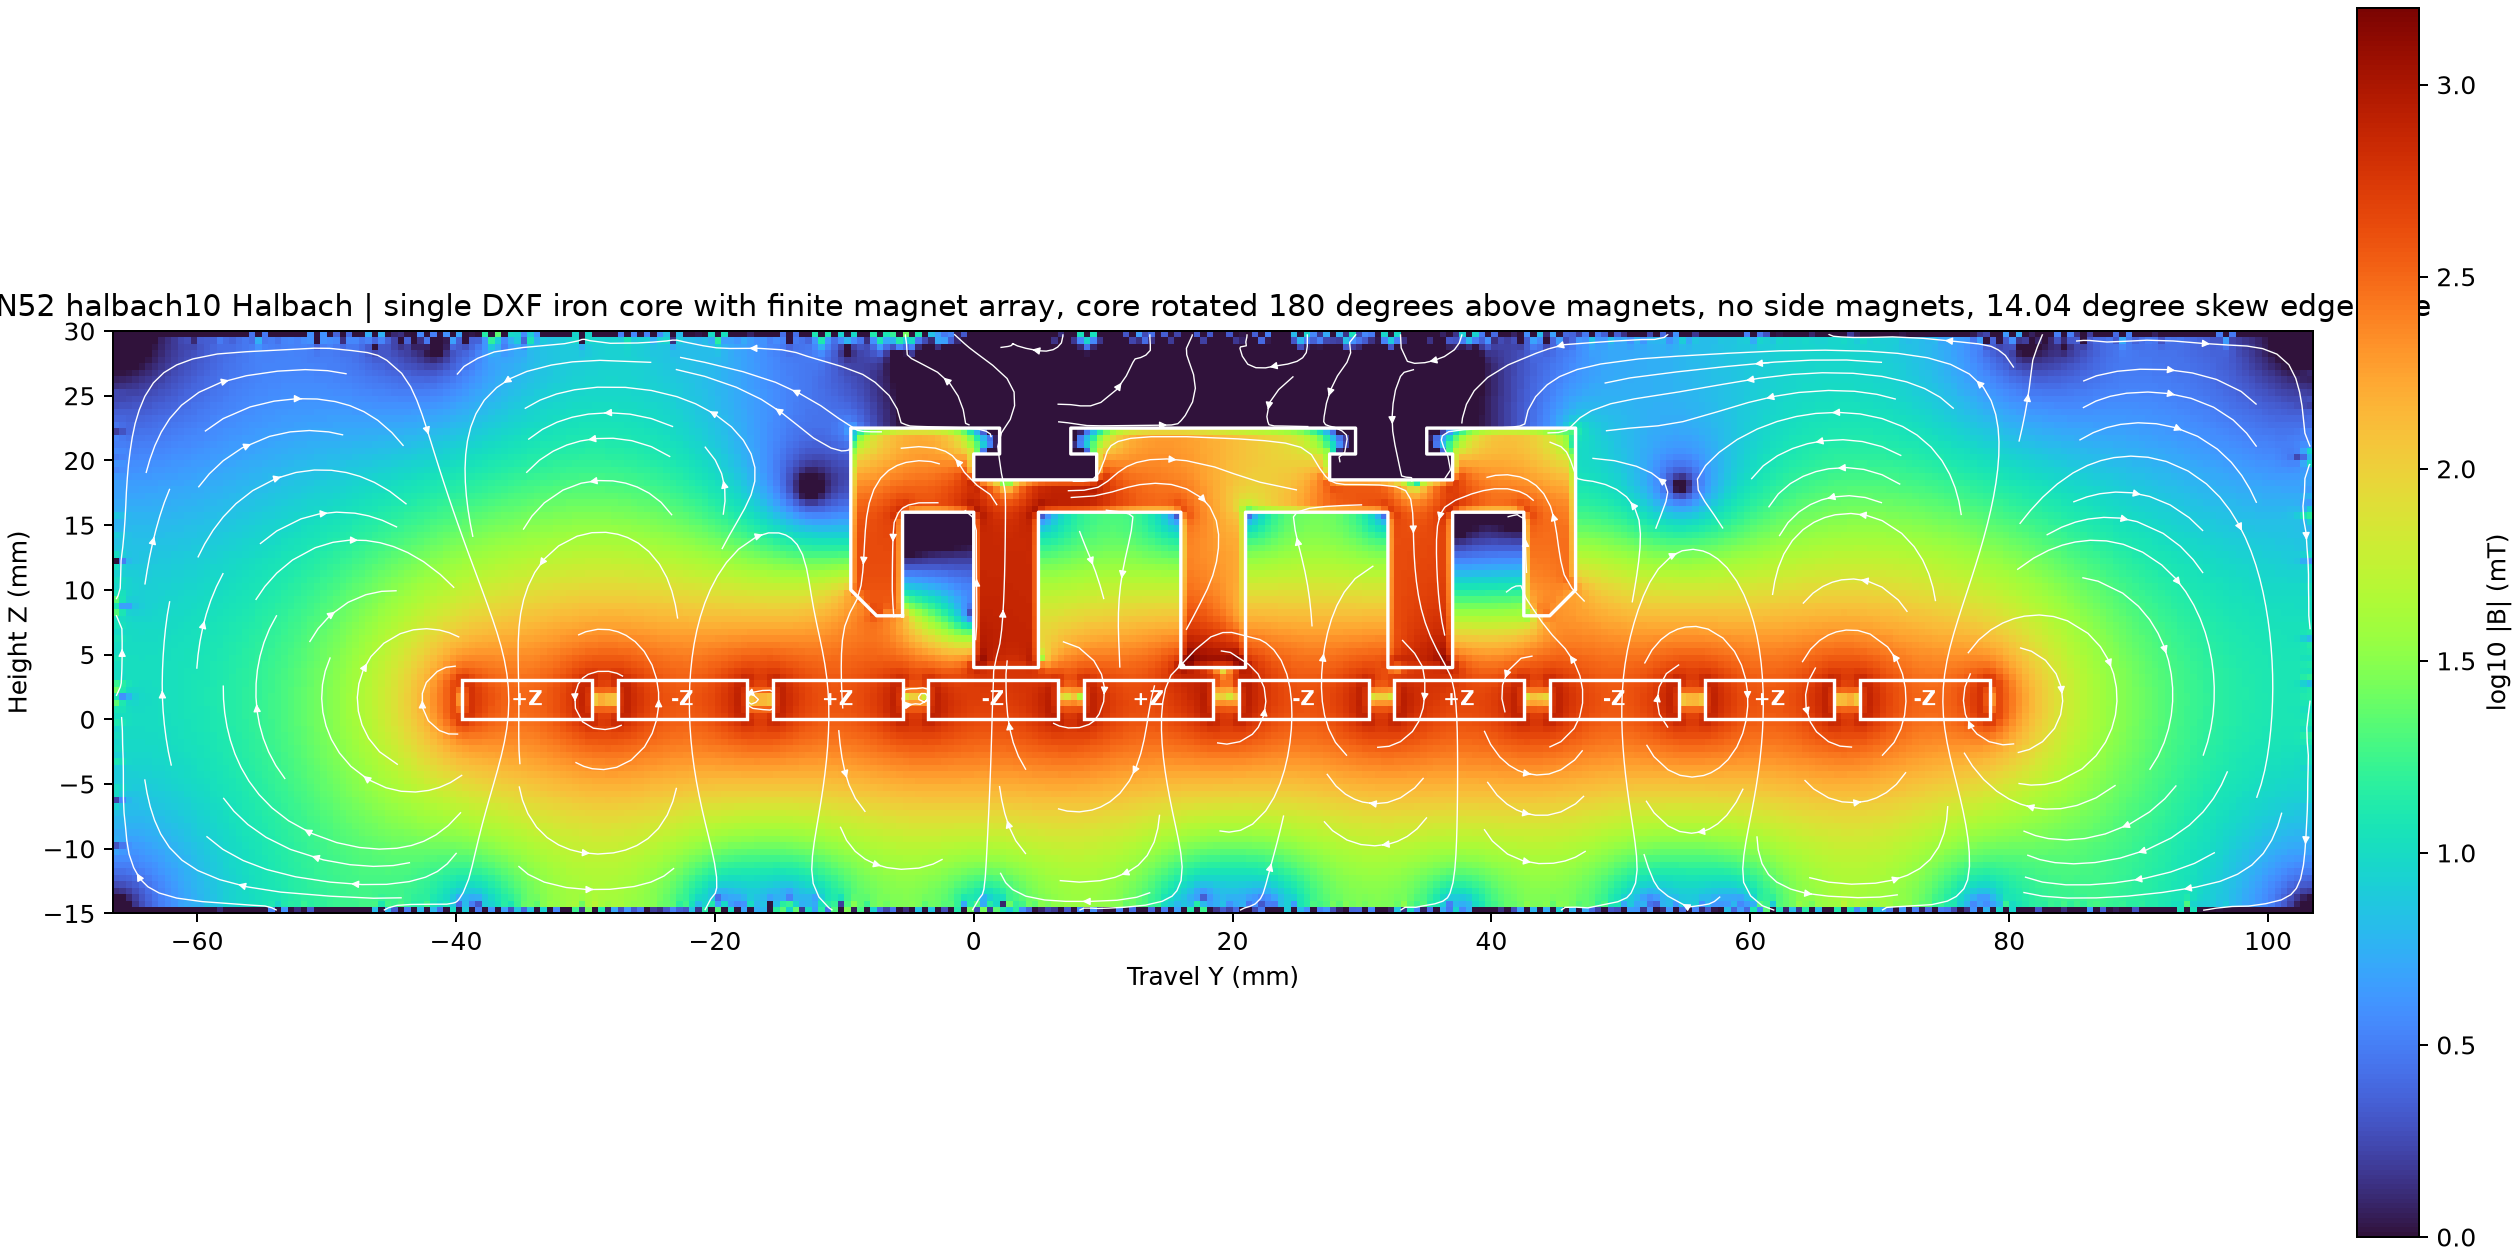
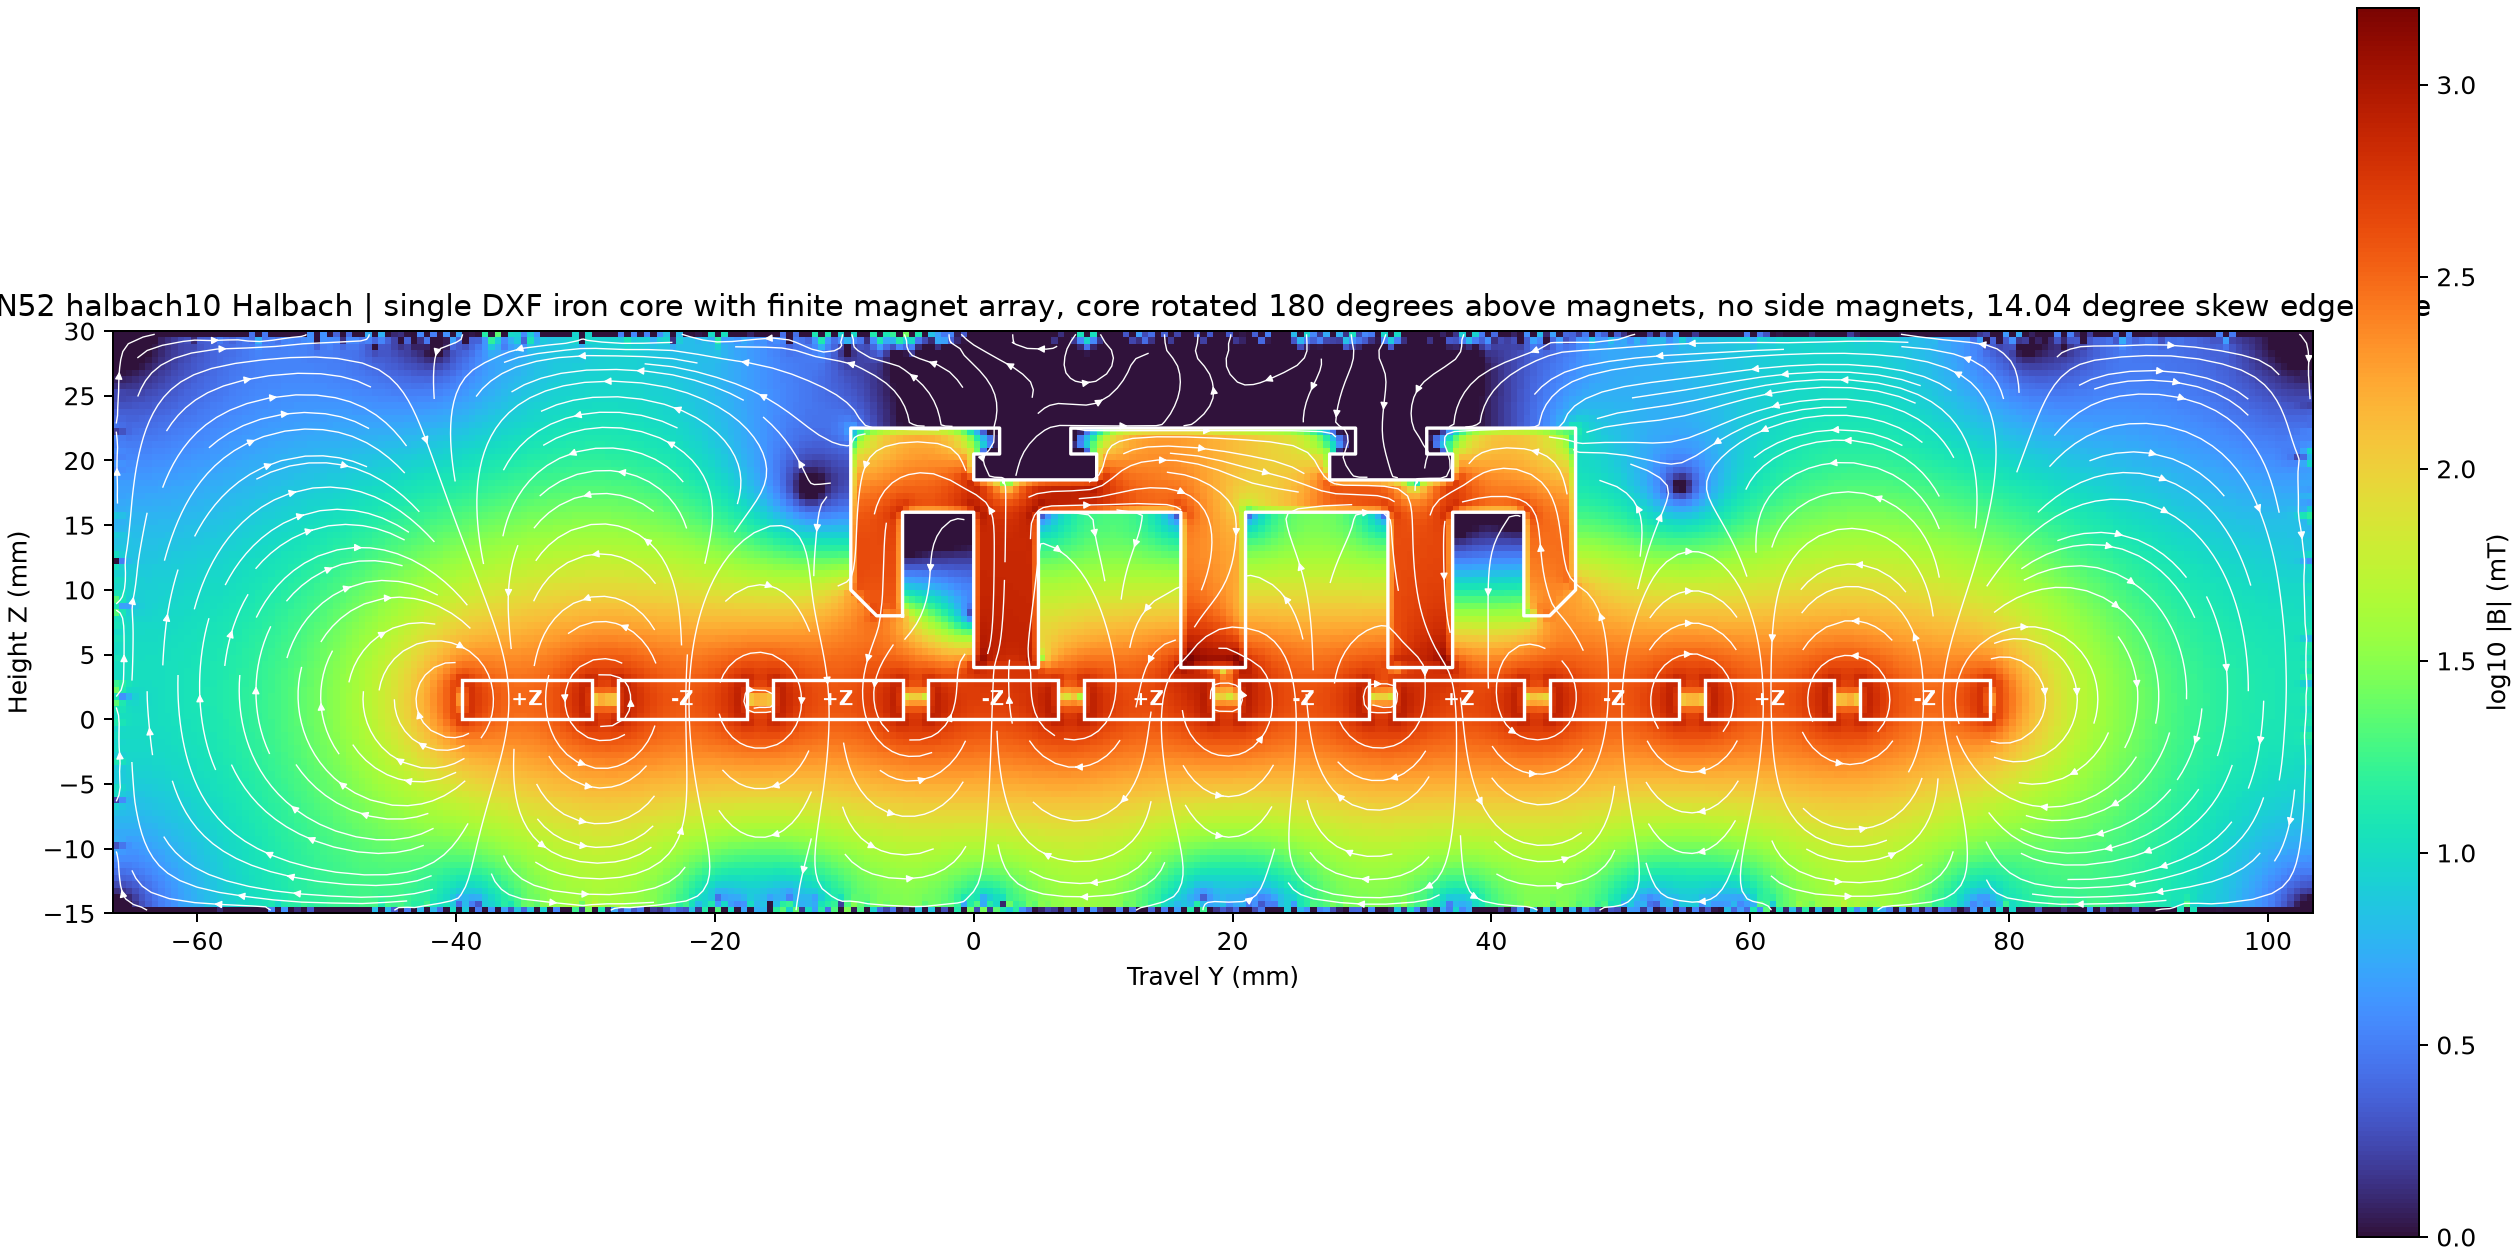
feat: densify static magnetic field lines

diff --git a/cogging_fdm.py b/cogging_fdm.py
@@ -205,7 +205,7 @@ if "--render" in sys.argv:
         view_magnitude_mt = np.tile(magnitude_mt, (1, 3))
     figure, axis = plt.subplots(figsize=(14, 7), constrained_layout=True)
     image = axis.imshow(np.log10(np.clip(view_magnitude_mt, 1, 2000)), origin="lower", extent=(view_y[0] - H / 2, view_y[-1] + H / 2, Z_MIN, Z_MAX), aspect="equal", cmap="turbo")
-    axis.streamplot(view_y, Z, view_by, view_bz, density=1.4, color="white", linewidth=0.55, arrowsize=0.6)
+    axis.streamplot(view_y, Z, view_by, view_bz, density=2.4, color="white", linewidth=0.55, arrowsize=0.6)
     profile = CORE_DXF
     axis.plot(np.r_[profile[:, 0], profile[0, 0]], np.r_[profile[:, 1], profile[0, 1]], color="white", linewidth=1.35, zorder=5)
     if array in HALBACH_WIDTHS and not NO_SIDE:
